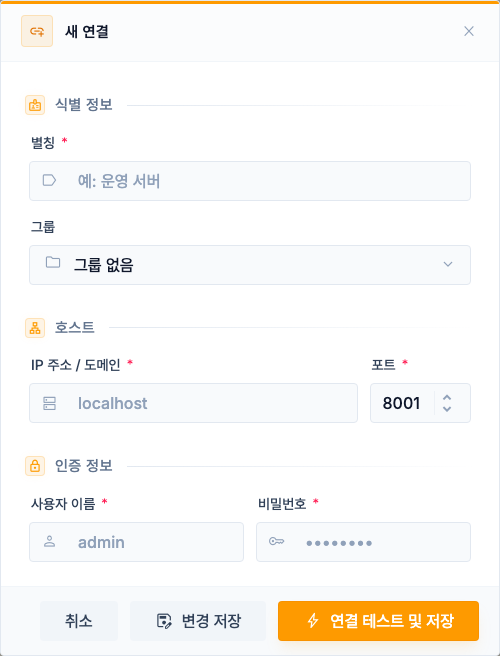
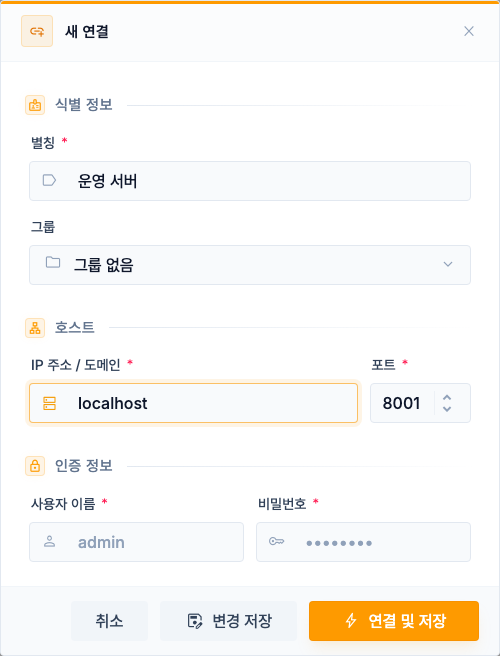
Table-ize login fields, trim obvious statements, fix Database Info image/text order
- auth.rst: login fields moved into a table; dropped the obvious
  "correct login goes to dashboard" / "Create Account navigates to
  register" bullets; logout section no longer explains that a language
  toggle persisting across pages is expected
- navigation.rst: reworded "Check for Updates" as a plain feature
  description instead of "disabled, does nothing"; fixed "Cubrid" ->
  "CUBRID" casing
- config_editor.rst: same casing fix
- database.rst: fixed Database Info's Param Dump/Locking Info/
  Transaction Info/Plan Dump items, which had description-before-image
  instead of this manual's image-then-description convention

Also folds in the session's other in-progress edits across host.rst,
db_user.rst, automation.rst, broker.rst, dashboard.rst, logs.rst,
desktop_app.rst, server_dashboard.rst, and overview.rst (heading labels
now consistently carry the English UI term, host.rst button labels
updated to match the app's current text, db_user.rst/logs.rst gained
additional detail).

diff --git a/web-manager-manual/navigation.rst b/web-manager-manual/navigation.rst
@@ -2,18 +2,39 @@
 화면 구성 / 탭
 ******************
 
-.. image:: /images/main-layout.png
+.. image:: /images/server-dashboard.png
+
+화면은 크게 네 영역으로 나뉜다.
+
+.. list-table::
+    :header-rows: 1
+    :widths: 25 75
+
+    * - 영역
+      - 설명
+    * - 좌측 사이드바
+      - 상단에는 등록된 호스트의 목록을 나타내는 **서버 목록** 섹션이 있고, 호스트에 로그인하면 그 아래에
+        로그인한 호스트의 데이터베이스/브로커/로그 목록(리소스)이 나타난다. 자세한 내용은 :doc:`host`\ ,
+        :doc:`database`\ , :doc:`broker`\ , :doc:`logs` 참고.
+    * - 상단 메뉴 바
+      - **파일(File)** / **호스트 서비스 관리(Host Service Management)** / **도움말(Help)** 드롭다운 메뉴가 있고,
+        우측에는 언어 전환(EN/KR), 다크모드 토글, 계정 pill(클릭하면 계정 프로필이 열린다, :doc:`auth` 참고),
+        로그아웃 버튼이 순서대로 있다.
+    * - 중앙 탭 영역
+      - 호스트/데이터베이스를 열거나 각종 관리 화면을 선택할 때마다 탭으로 쌓이는 공간이다.
+    * - 하단 상태 표시줄
+      - 사이드바에서 선택된 호스트의 접속 주소:포트(또는 "호스트가 선택되지 않음")와 CUBRID 버전을
+        항상 보여준다.
 
 호스트를 더블클릭하면 **서버 대시보드(Server Dashboard)** 탭이 열린다. 데이터베이스를 더블클릭하면
-(로그인 프로필이 없는 경우 먼저 Login Database 대화창이 뜨고, 로그인 후 다시 더블클릭해야) **데이터베이스 대시보드(Database Dashboard)** 탭이 열린다.
+(데이터베이스 로그인 프로필이 없는 경우 먼저 Login Database 대화창이 뜨고, 로그인 후 다시 더블클릭해야) **데이터베이스 대시보드(Database Dashboard)** 탭이 열린다.
 
 각 탭은 독립적으로 상태가 유지된다.
 
-탭에 저장하지 않은 변경사항(예: Broker/Cubrid Config 편집 중)이 있는 채로 닫으면 **Discard Changes?** 확인 대화창이 뜬다.
-**취소(Cancel)** 을 누르면 닫지 않고 유지되고, **버리기(Discard)** 를 누르면 변경사항을 버리고 닫힌다.
+탭에 저장하지 않은 변경사항(예: Broker/CUBRID Config 편집 중)이 있는 채로 닫으면 **저장하지 않은 변경 사항** 확인 대화창이 뜬다.
 
-도움말 메뉴 (Help)
-====================
+도움말 메뉴(Help)
+===================
 
 .. image:: /images/navigation-help-menu.png
    :width: 260px
@@ -35,7 +56,7 @@
     * - CUBRID 도구 개발(CUBRID tools developments)
       - 새 탭에서 CUBRID Manager GitHub 저장소(https://github.com/CUBRID/cubrid-manager)를 연다
     * - 업데이트 확인(Check for Updates)
-      - 항상 비활성화되어 있다. 클릭해도 아무 동작이 일어나지 않는다
+      - 새 버전이 있는지 확인하는 기능이나, 현재는 비활성화되어 있다
     * - 서버 버전(Server Version)
       - 사이드바에서 호스트가 선택되어 있어야 활성화된다. :doc:`host` 의 "서버 버전" 절 참고
     * - CUBRID Admin 정보(About CUBRID Admin)

diff --git a/web-manager-manual/auth.rst b/web-manager-manual/auth.rst
@@ -2,20 +2,29 @@
 로그인 / 회원가입
 *********************
 
-로그인
-======
+로그인(Login)
+==============
 
 .. image:: /images/login.png
 
-필드: **사용자 이름(Username)** \*, **비밀번호(Password)** \* (옆 눈 모양 아이콘으로 표시/숨김 토글). 우측 상단에 언어(한/영)와 다크모드 토글 버튼이 있다.
+.. list-table::
+    :header-rows: 1
+    :widths: 30 70
 
-#. 아무것도 채우지 않고 Login을 누르면 "Username ... required" / "Password ... required" 인라인 오류가 표시된다.
-#. 잘못된 정보로 로그인하면 **인증 실패(Authentication Failed)** 오류 배너가 뜨고 로그인 페이지에 그대로 남는다.
-#. 올바른 정보로 로그인하면 대시보드 화면으로 이동한다.
-#. 하단 **계정 만들기(Create Account)** 를 클릭하면 회원가입 화면으로 이동한다.
+    * - 필드
+      - 설명
+    * - 사용자 이름(Username) \*
+      - —
+    * - 비밀번호(Password) \*
+      - 옆 눈 모양 아이콘으로 표시/숨김 토글
 
-회원가입
-========
+우측 상단에 언어(한/영)와 다크모드 토글 버튼이 있다.
+
+* 아무것도 채우지 않고 Login을 누르면 "Username ... required" / "Password ... required" 인라인 오류가 표시된다.
+* 잘못된 정보로 로그인하면 **인증 실패(Authentication Failed)** 오류 배너가 뜨고 로그인 페이지에 그대로 남는다.
+
+회원가입(Register)
+====================
 
 .. image:: /images/register.png
 
@@ -27,8 +36,8 @@
 * 이미 있는 Username으로 가입을 시도하면 중복 오류가 표시된다.
 * 정상 가입 후에는 로그인 화면으로 이동한다.
 
-계정 프로필 / 비밀번호 변경
-============================
+계정 프로필(Account Profile) / 비밀번호 변경(Change Password)
+================================================================
 
 .. image:: /images/auth-account-profile.png
 
@@ -50,8 +59,7 @@
   실시간 검증 표시가 없고, 조건을 만족하지 않으면 저장 시 서버에서 오류가 반환된다.
 * 현재 비밀번호가 틀리면 오류가 표시된다.
 
-로그아웃 / 언어 전환
-====================
+로그아웃(Logout) / 언어 전환(Language)
+========================================
 
-로그인 후에도 우측 상단에 언어(EN/KR) 토글이 계속 남아 있으며, 로그인 화면과 마찬가지로 즉시 전환되고 다음
-로그인에도 유지된다. 그 옆의 **로그아웃(Logout)** 버튼을 누르면 확인창 없이 즉시 로그아웃되어 로그인 화면으로 돌아간다.
+**로그아웃(Logout)** 버튼을 누르면 확인창 없이 즉시 로그아웃되어 로그인 화면으로 돌아간다.

diff --git a/web-manager-manual/db_user.rst b/web-manager-manual/db_user.rst
@@ -9,15 +9,34 @@ CUBRID 데이터베이스 안에 실제로 존재하는 DB 계정(``db_user``/``
 .. image:: /images/db-user.png
 
 데이터베이스 → **사용자(Users)** 폴더 우클릭 → **사용자 추가(Add User)** 를 선택하면 **사용자 생성(Create User)** 대화창이 열린다.
-탭 구성: **식별 정보(Identity)** (Username, Description, 비밀번호, 그룹/멤버 설정), **권한(Permissions)**.
+필드는 **사용자 이름(Username)**, **설명(Description)**, **새 비밀번호(New Password)**, **비밀번호 확인(Password Confirm)** 이다.
+
+.. note::
+
+    사용자 추가/수정/삭제는 SQL문(``CREATE USER`` 등)을 직접 실행하는 화면이 아니라, CMS를 통해 데이터베이스
+    사용자 정보를 바로 반영하는 전용 화면이다.
 
 .. note::
 
     Username(사용자 이름) \* 만 필수이며, 값이 없으면 **사용자 생성(Create User)** 버튼 자체가 비활성화된다.
-    Password/Password Confirm은 선택 입력이다 — 비워두면 비밀번호 없는 사용자로 생성된다.
+    Password/Password Confirm은 선택적으로 입력할 수 있는 값이다 — 비워두면 비밀번호 없는 사용자로 생성된다.
 
 .. note::
 
     생성에 성공하면 트리에 사용자 이름이 대문자로 표시된다. CUBRID가 식별자를 대문자로 변환하기 때문이며, 오류가 아니다.
 
-우클릭 메뉴로 사용자 수정(**사용자 편집(Edit user)**), 삭제(**사용자 삭제(Delete user)**)도 가능하다.
+사용자 편집(Edit User)
+========================
+
+사용자 우클릭 → **사용자 편집(Edit User)** 을 선택하면 사용자 생성과 같은 대화창이 "편집" 모드로 열린다.
+
+* **사용자 이름(Username)** 은 수정할 수 없다 — 필드가 잠긴 채로 표시된다.
+* **새 비밀번호(New Password)** / **비밀번호 확인(Password Confirm)** 은 선택적으로 입력할 수 있는 값이다.
+  비워두면 기존 비밀번호가 그대로 유지된다.
+
+사용자 삭제(Delete User)
+==========================
+
+사용자 우클릭 → **사용자 삭제(Delete User)** 를 선택하면 **데이터베이스 사용자 삭제** 확인 대화창이 열린다.
+삭제할 사용자 이름과 소속 데이터베이스가 표시되며, 이 작업은 되돌릴 수 없다는 경고와 함께 **취소** / **사용자 삭제**
+버튼이 있다.

diff --git a/web-manager-manual/logs.rst b/web-manager-manual/logs.rst
@@ -3,12 +3,17 @@
 ***************
 
 사이드바 리소스 트리 상단의 세 탭(**데이터베이스(Database)** / **브로커(Broker)** / **로그(Log)**) 중 **로그(Log)** 를 클릭하면
-로그 트리로 전환된다. 트리는 세 섹션으로 구성된다: **브로커 로그(Broker Logs)**, **매니저 로그(Manager Logs)**, **서버 로그(Server Logs)**.
+로그 트리로 전환된다.
+
+트리는 세 섹션으로 구성된다: **브로커 로그(Broker Logs)**, **매니저 로그(Manager Logs)**, **서버 로그(Server Logs)**.
+
+폴더는 우클릭 → **새로 고침(Refresh)** 으로 다시 불러올 수 있고, 개별 파일은 더블클릭하여 내용을 볼 수 있다
+(아래 "로그 뷰어(Log Viewer)" 참고).
 
 .. image:: /images/log-tree.png
 
-Broker Logs
-=============
+브로커 로그(Broker Logs)
+==========================
 
 .. list-table::
     :header-rows: 1
@@ -23,23 +28,20 @@ Broker Logs
     * - 관리 로그(Admin Log)
       - 관리 로그 파일 목록
 
-폴더 우클릭 시 **새로 고침(Refresh)** 로 목록을 다시 불러온다. 개별 파일을 더블클릭하면 Log Viewer 탭이 열린다.
-
-Manager Logs
-=============
+매니저 로그(Manager Logs)
+===========================
 
 * **접근 로그(Access log)** / **오류 로그(Error log)** — CMS(매니저) 자체의 접근/오류 로그. 더블클릭하면 바로 전용 뷰어가 열린다
   (개별 파일 목록이 아니다).
 
-Server Logs
-=============
+서버 로그(Server Logs)
+========================
 
 데이터베이스별로 폴더가 나열되며, 펼치면 해당 데이터베이스의 서버 로그 파일 목록이 나온다.
-폴더 우클릭 시 **전체 로그 보기(View All Logs)** (해당 데이터베이스의 모든 로그 파일을 한 화면에 이어서 표시) 와
-**새로 고침(Refresh)** 를 선택할 수 있다.
+폴더 우클릭 시 **전체 로그 보기(View All Logs)** 로 해당 데이터베이스의 모든 로그 파일을 한 화면에 이어서 볼 수 있다.
 
-Log Viewer
-=============
+로그 뷰어(Log Viewer)
+=======================
 
 Broker/Server 로그 파일을 더블클릭하면 열리는 화면으로, 모드 전환 버튼 3개(**원시 로그(Raw Log)** / **파싱된 SQL(Parsed SQL)** / **Top SQL**)가
 있다 (``Top SQL``\ 은 로케일과 무관하게 화면에 항상 영문으로만 표시된다).

diff --git a/web-manager-manual/config_editor.rst b/web-manager-manual/config_editor.rst
@@ -9,23 +9,23 @@
 세 화면 모두 문법 검사 없이 저장한 내용이 즉시 반영되는 순수 텍스트 편집기이며, 되돌리기(Undo) 버튼으로 직전
 입력을 취소할 수 있다. 단, 저장을 누른 뒤에는 되돌리기로 되돌릴 수 없다.
 
-CUBRID 설정 편집
-==================
+CUBRID 설정 편집(Edit CUBRID Config)
+======================================
 
 .. image:: /images/server-cubrid-config-edit.png
 
-호스트의 ``cubrid.conf`` 설정 파일을 편집하는 화면이다. **CUBRID 설정 편집(Edit Cubrid Config)** 을 선택하면 열린다.
+호스트의 ``cubrid.conf`` 설정 파일을 편집하는 화면이다. **CUBRID 설정 편집(Edit CUBRID Config)** 을 선택하면 열린다.
 
-CM 설정 편집
-==============
+CM 설정 편집(Edit CM Config)
+==============================
 
 .. image:: /images/server-cm-config-edit.png
 
 호스트에서 실행 중인 CMS(CUBRID Manager Server) 자체의 설정 파일인 ``cm.conf`` 를 편집하는 화면이다.
 **CM 설정 편집(Edit CM Config)** 을 선택하면 열리며, 편집기 화면 구성과 저장 방식은 CUBRID 설정 편집과 동일하다.
 
-브로커 설정 편집
-==================
+브로커 설정 편집(Edit Broker Config)
+======================================
 
 .. image:: /images/broker-config-edit.png
 

diff --git a/web-manager-manual/broker.rst b/web-manager-manual/broker.rst
@@ -16,8 +16,8 @@
     이 호스트에서 다른 작업(백업, 데이터베이스 생성 등)이 진행 중이면 브로커 시작/중지 메뉴 전체가
     비활성화된다. CUBRID 엔진 자체의 제약이 아니라, 동시 요청으로 인한 충돌을 막기 위한 NCA 쪽 정책이다.
 
-전체 브로커 상태 보기 (Show Status)
-=====================================
+전체 브로커 상태 보기(Show Status)
+====================================
 
 .. image:: /images/broker-show-status.png
 
@@ -62,8 +62,8 @@
 ``cubrid_broker.conf`` 파일 전체를 여는 **브로커 설정 편집(Edit Broker Config)** 화면은 :doc:`config_editor`
 문서에서 따로 설명한다.
 
-브로커 속성 (Properties)
-==========================
+브로커 속성(Properties)
+=========================
 
 .. image:: /images/broker-properties.png
 
@@ -93,8 +93,8 @@
 
     한 번 적용하면 롤백할 수 없으므로 신중하게 사용한다.
 
-로그 뷰어
-=========
+로그 뷰어(Log Viewer)
+======================
 
 .. image:: /images/broker-log-viewer.png
 

diff --git a/web-manager-manual/overview.rst b/web-manager-manual/overview.rst
@@ -60,7 +60,7 @@ Electron 데스크톱 앱 환경에서도 사용할 수 있도록 제공한다. 
 * **프로필(저장된 로그인 정보)** — 호스트나 데이터베이스에 로그인할 때 "비밀번호 저장"을 켜두면, 다음부터 다시
   입력하지 않도록 NCA 서버가 로그인 계정별 암호화된 파일에 그 사용자명/비밀번호를 저장해둔다. 이 메뉴얼에서는
   이렇게 저장된 로그인 정보를 편의상 "프로필"이라고 부른다(예: :doc:`host` 의 저장된 호스트 접속 정보,
-  :doc:`database` 의 "저장된 로그인 프로필"). NCA 계정으로 다시 로그인하면 프로필도 함께 불러와진다.
+  :doc:`database` 의 "데이터베이스 로그인 프로필"). NCA 계정으로 다시 로그인하면 프로필도 함께 불러와진다.
 
 이 메뉴얼에는 이름이 비슷해 혼동하기 쉬운 세 종류의 "계정"과 네 종류의 "계획/자동화"가 나온다. 각각 서로
 다른 곳에 저장되고 서로 다른 화면에서 다루므로 구분해둔다.

diff --git a/web-manager-manual/server_dashboard.rst b/web-manager-manual/server_dashboard.rst
@@ -2,8 +2,8 @@
 서버 / 서비스 대시보드
 **************************
 
-Server Dashboard
-=================
+서버 대시보드(Server Dashboard)
+=================================
 
 .. image:: /images/server-dashboard.png
 
@@ -26,8 +26,8 @@ Server Dashboard
     * - Environment Details
       - CUBRID 버전, 설치 경로 등 호스트 환경 정보를 보여준다 (:doc:`host` 의 "서버 버전" 절과 같은 정보다).
 
-Service Dashboard (전체 현황)
-==============================
+서비스 대시보드(Service Dashboard)
+====================================
 
 .. image:: /images/service-dashboard.png
 

diff --git a/web-manager-manual/desktop_app.rst b/web-manager-manual/desktop_app.rst
@@ -2,8 +2,8 @@
 데스크톱 앱 설정
 *******************
 
-워크스페이스 설정
-==================
+워크스페이스 설정(Workspace Settings)
+=======================================
 
 Electron 데스크톱 앱에서만 나타나는 화면이다(브라우저에서는 접근할 수 없다는 경고와 함께 로그인 화면으로
 돌아가는 링크만 보인다). 로그인 화면 하단의 **워크스페이스 설정(Workspace settings)** 링크로 언제든 열 수 있고, 앱을 처음
